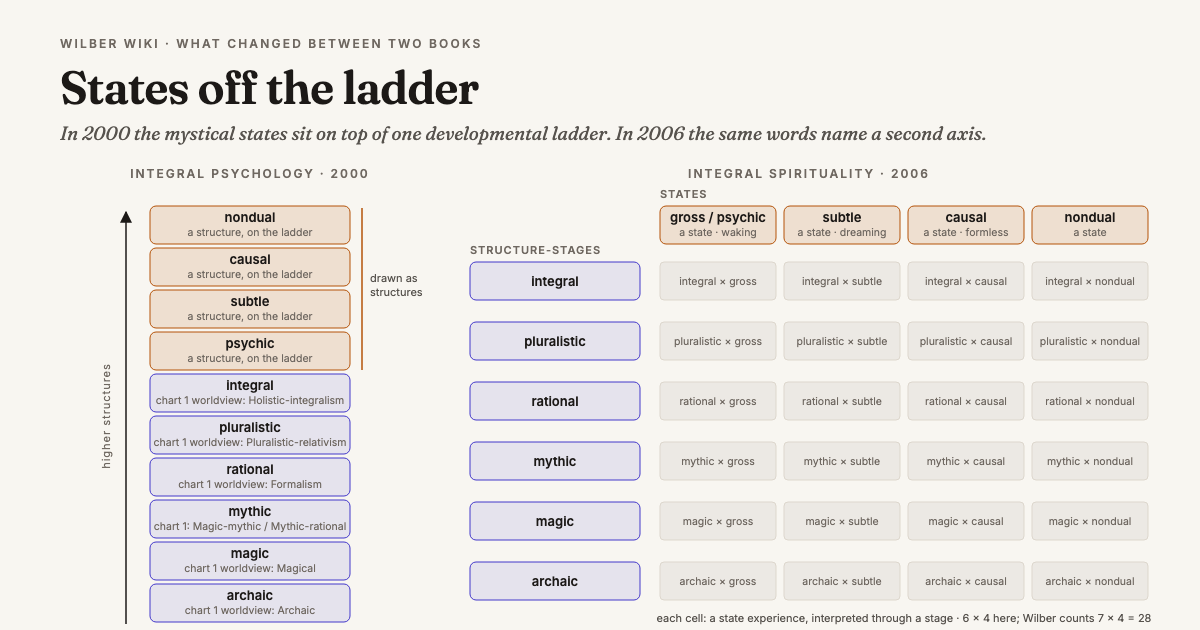
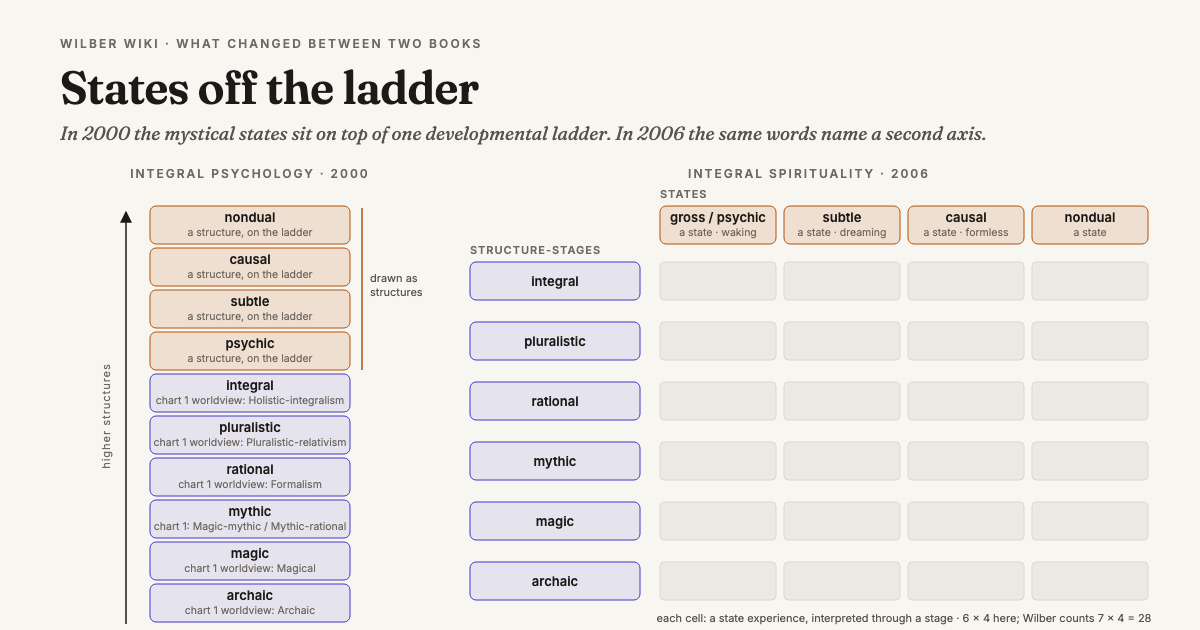
Visuals: figures head their concept pages, states grid without cell labels, /assets hidden from sidebar; at6.4 reshaped (wilberwiki-8lk)
Claude-Session: https://claude.ai/code/session_01FHWY7XNxLgMcxMJ5aUtXQH

diff --git a/docs/plans/visual-brainstorm/states-and-stages/index.html b/docs/plans/visual-brainstorm/states-and-stages/index.html
@@ -125,40 +125,40 @@ footer { padding: 2rem 0 3rem; font-size: 0.8rem; color: var(--wv-muted); border
 
   <!-- step 3: the cells, each a state experience interpreted through a stage -->
   <g class="wv-fade" data-at="3" style="transition-delay: 0ms">
-    <g><rect x="660" y="262" width="116" height="38" rx="4" class="f-neutral s-faint w-hair"><title>integral × gross/psychic: a gross-state experience, interpreted through the integral stage</title></rect><text x="718" y="285" text-anchor="middle" class="t-foot">integral × gross</text></g>
-    <g><rect x="784" y="262" width="116" height="38" rx="4" class="f-neutral s-faint w-hair"><title>integral × subtle: a subtle-state experience, interpreted through the integral stage</title></rect><text x="842" y="285" text-anchor="middle" class="t-foot">integral × subtle</text></g>
-    <g><rect x="908" y="262" width="116" height="38" rx="4" class="f-neutral s-faint w-hair"><title>integral × causal: a causal-state experience, interpreted through the integral stage</title></rect><text x="966" y="285" text-anchor="middle" class="t-foot">integral × causal</text></g>
-    <g><rect x="1032" y="262" width="116" height="38" rx="4" class="f-neutral s-faint w-hair"><title>integral × nondual: a nondual-state experience, interpreted through the integral stage</title></rect><text x="1090" y="285" text-anchor="middle" class="t-foot">integral × nondual</text></g>
+    <g><rect x="660" y="262" width="116" height="38" rx="4" class="f-neutral s-faint w-hair"><title>integral × gross/psychic: a gross-state experience, interpreted through the integral stage</title></rect></g>
+    <g><rect x="784" y="262" width="116" height="38" rx="4" class="f-neutral s-faint w-hair"><title>integral × subtle: a subtle-state experience, interpreted through the integral stage</title></rect></g>
+    <g><rect x="908" y="262" width="116" height="38" rx="4" class="f-neutral s-faint w-hair"><title>integral × causal: a causal-state experience, interpreted through the integral stage</title></rect></g>
+    <g><rect x="1032" y="262" width="116" height="38" rx="4" class="f-neutral s-faint w-hair"><title>integral × nondual: a nondual-state experience, interpreted through the integral stage</title></rect></g>
   </g>
   <g class="wv-fade" data-at="3" style="transition-delay: 90ms">
-    <g><rect x="660" y="322" width="116" height="38" rx="4" class="f-neutral s-faint w-hair"><title>pluralistic × gross/psychic: a gross-state experience, interpreted through the pluralistic stage</title></rect><text x="718" y="345" text-anchor="middle" class="t-foot">pluralistic × gross</text></g>
-    <g><rect x="784" y="322" width="116" height="38" rx="4" class="f-neutral s-faint w-hair"><title>pluralistic × subtle: a subtle-state experience, interpreted through the pluralistic stage</title></rect><text x="842" y="345" text-anchor="middle" class="t-foot">pluralistic × subtle</text></g>
-    <g><rect x="908" y="322" width="116" height="38" rx="4" class="f-neutral s-faint w-hair"><title>pluralistic × causal: a causal-state experience, interpreted through the pluralistic stage</title></rect><text x="966" y="345" text-anchor="middle" class="t-foot">pluralistic × causal</text></g>
-    <g><rect x="1032" y="322" width="116" height="38" rx="4" class="f-neutral s-faint w-hair"><title>pluralistic × nondual: a nondual-state experience, interpreted through the pluralistic stage</title></rect><text x="1090" y="345" text-anchor="middle" class="t-foot">pluralistic × nondual</text></g>
+    <g><rect x="660" y="322" width="116" height="38" rx="4" class="f-neutral s-faint w-hair"><title>pluralistic × gross/psychic: a gross-state experience, interpreted through the pluralistic stage</title></rect></g>
+    <g><rect x="784" y="322" width="116" height="38" rx="4" class="f-neutral s-faint w-hair"><title>pluralistic × subtle: a subtle-state experience, interpreted through the pluralistic stage</title></rect></g>
+    <g><rect x="908" y="322" width="116" height="38" rx="4" class="f-neutral s-faint w-hair"><title>pluralistic × causal: a causal-state experience, interpreted through the pluralistic stage</title></rect></g>
+    <g><rect x="1032" y="322" width="116" height="38" rx="4" class="f-neutral s-faint w-hair"><title>pluralistic × nondual: a nondual-state experience, interpreted through the pluralistic stage</title></rect></g>
   </g>
   <g class="wv-fade" data-at="3" style="transition-delay: 180ms">
-    <g><rect x="660" y="382" width="116" height="38" rx="4" class="f-neutral s-faint w-hair"><title>rational × gross/psychic: a gross-state experience, interpreted through the rational stage</title></rect><text x="718" y="405" text-anchor="middle" class="t-foot">rational × gross</text></g>
-    <g><rect x="784" y="382" width="116" height="38" rx="4" class="f-neutral s-faint w-hair"><title>rational × subtle: a subtle-state experience, interpreted through the rational stage</title></rect><text x="842" y="405" text-anchor="middle" class="t-foot">rational × subtle</text></g>
-    <g><rect x="908" y="382" width="116" height="38" rx="4" class="f-neutral s-faint w-hair"><title>rational × causal: a causal-state experience, interpreted through the rational stage</title></rect><text x="966" y="405" text-anchor="middle" class="t-foot">rational × causal</text></g>
-    <g><rect x="1032" y="382" width="116" height="38" rx="4" class="f-neutral s-faint w-hair"><title>rational × nondual: a nondual-state experience, interpreted through the rational stage</title></rect><text x="1090" y="405" text-anchor="middle" class="t-foot">rational × nondual</text></g>
+    <g><rect x="660" y="382" width="116" height="38" rx="4" class="f-neutral s-faint w-hair"><title>rational × gross/psychic: a gross-state experience, interpreted through the rational stage</title></rect></g>
+    <g><rect x="784" y="382" width="116" height="38" rx="4" class="f-neutral s-faint w-hair"><title>rational × subtle: a subtle-state experience, interpreted through the rational stage</title></rect></g>
+    <g><rect x="908" y="382" width="116" height="38" rx="4" class="f-neutral s-faint w-hair"><title>rational × causal: a causal-state experience, interpreted through the rational stage</title></rect></g>
+    <g><rect x="1032" y="382" width="116" height="38" rx="4" class="f-neutral s-faint w-hair"><title>rational × nondual: a nondual-state experience, interpreted through the rational stage</title></rect></g>
   </g>
   <g class="wv-fade" data-at="3" style="transition-delay: 270ms">
-    <g><rect x="660" y="442" width="116" height="38" rx="4" class="f-neutral s-faint w-hair"><title>mythic × gross/psychic: a gross-state experience, interpreted through the mythic stage</title></rect><text x="718" y="465" text-anchor="middle" class="t-foot">mythic × gross</text></g>
-    <g><rect x="784" y="442" width="116" height="38" rx="4" class="f-neutral s-faint w-hair"><title>mythic × subtle: a subtle-state experience, interpreted through the mythic stage</title></rect><text x="842" y="465" text-anchor="middle" class="t-foot">mythic × subtle</text></g>
-    <g><rect x="908" y="442" width="116" height="38" rx="4" class="f-neutral s-faint w-hair"><title>mythic × causal: a causal-state experience, interpreted through the mythic stage</title></rect><text x="966" y="465" text-anchor="middle" class="t-foot">mythic × causal</text></g>
-    <g><rect x="1032" y="442" width="116" height="38" rx="4" class="f-neutral s-faint w-hair"><title>mythic × nondual: a nondual-state experience, interpreted through the mythic stage</title></rect><text x="1090" y="465" text-anchor="middle" class="t-foot">mythic × nondual</text></g>
+    <g><rect x="660" y="442" width="116" height="38" rx="4" class="f-neutral s-faint w-hair"><title>mythic × gross/psychic: a gross-state experience, interpreted through the mythic stage</title></rect></g>
+    <g><rect x="784" y="442" width="116" height="38" rx="4" class="f-neutral s-faint w-hair"><title>mythic × subtle: a subtle-state experience, interpreted through the mythic stage</title></rect></g>
+    <g><rect x="908" y="442" width="116" height="38" rx="4" class="f-neutral s-faint w-hair"><title>mythic × causal: a causal-state experience, interpreted through the mythic stage</title></rect></g>
+    <g><rect x="1032" y="442" width="116" height="38" rx="4" class="f-neutral s-faint w-hair"><title>mythic × nondual: a nondual-state experience, interpreted through the mythic stage</title></rect></g>
   </g>
   <g class="wv-fade" data-at="3" style="transition-delay: 360ms">
-    <g><rect x="660" y="502" width="116" height="38" rx="4" class="f-neutral s-faint w-hair"><title>magic × gross/psychic: a gross-state experience, interpreted through the magic stage</title></rect><text x="718" y="525" text-anchor="middle" class="t-foot">magic × gross</text></g>
-    <g><rect x="784" y="502" width="116" height="38" rx="4" class="f-neutral s-faint w-hair"><title>magic × subtle: a subtle-state experience, interpreted through the magic stage</title></rect><text x="842" y="525" text-anchor="middle" class="t-foot">magic × subtle</text></g>
-    <g><rect x="908" y="502" width="116" height="38" rx="4" class="f-neutral s-faint w-hair"><title>magic × causal: a causal-state experience, interpreted through the magic stage</title></rect><text x="966" y="525" text-anchor="middle" class="t-foot">magic × causal</text></g>
-    <g><rect x="1032" y="502" width="116" height="38" rx="4" class="f-neutral s-faint w-hair"><title>magic × nondual: a nondual-state experience, interpreted through the magic stage</title></rect><text x="1090" y="525" text-anchor="middle" class="t-foot">magic × nondual</text></g>
+    <g><rect x="660" y="502" width="116" height="38" rx="4" class="f-neutral s-faint w-hair"><title>magic × gross/psychic: a gross-state experience, interpreted through the magic stage</title></rect></g>
+    <g><rect x="784" y="502" width="116" height="38" rx="4" class="f-neutral s-faint w-hair"><title>magic × subtle: a subtle-state experience, interpreted through the magic stage</title></rect></g>
+    <g><rect x="908" y="502" width="116" height="38" rx="4" class="f-neutral s-faint w-hair"><title>magic × causal: a causal-state experience, interpreted through the magic stage</title></rect></g>
+    <g><rect x="1032" y="502" width="116" height="38" rx="4" class="f-neutral s-faint w-hair"><title>magic × nondual: a nondual-state experience, interpreted through the magic stage</title></rect></g>
   </g>
   <g class="wv-fade" data-at="3" style="transition-delay: 450ms">
-    <g><rect x="660" y="562" width="116" height="38" rx="4" class="f-neutral s-faint w-hair"><title>archaic × gross/psychic: a gross-state experience, interpreted through the archaic stage</title></rect><text x="718" y="585" text-anchor="middle" class="t-foot">archaic × gross</text></g>
-    <g><rect x="784" y="562" width="116" height="38" rx="4" class="f-neutral s-faint w-hair"><title>archaic × subtle: a subtle-state experience, interpreted through the archaic stage</title></rect><text x="842" y="585" text-anchor="middle" class="t-foot">archaic × subtle</text></g>
-    <g><rect x="908" y="562" width="116" height="38" rx="4" class="f-neutral s-faint w-hair"><title>archaic × causal: a causal-state experience, interpreted through the archaic stage</title></rect><text x="966" y="585" text-anchor="middle" class="t-foot">archaic × causal</text></g>
-    <g><rect x="1032" y="562" width="116" height="38" rx="4" class="f-neutral s-faint w-hair"><title>archaic × nondual: a nondual-state experience, interpreted through the archaic stage</title></rect><text x="1090" y="585" text-anchor="middle" class="t-foot">archaic × nondual</text></g>
+    <g><rect x="660" y="562" width="116" height="38" rx="4" class="f-neutral s-faint w-hair"><title>archaic × gross/psychic: a gross-state experience, interpreted through the archaic stage</title></rect></g>
+    <g><rect x="784" y="562" width="116" height="38" rx="4" class="f-neutral s-faint w-hair"><title>archaic × subtle: a subtle-state experience, interpreted through the archaic stage</title></rect></g>
+    <g><rect x="908" y="562" width="116" height="38" rx="4" class="f-neutral s-faint w-hair"><title>archaic × causal: a causal-state experience, interpreted through the archaic stage</title></rect></g>
+    <g><rect x="1032" y="562" width="116" height="38" rx="4" class="f-neutral s-faint w-hair"><title>archaic × nondual: a nondual-state experience, interpreted through the archaic stage</title></rect></g>
   </g>
   <text x="904" y="622" text-anchor="middle" class="t-small t-soft wv-fade" data-at="3" style="transition-delay: 500ms">each cell: a state experience, interpreted through a stage · 6 × 4 here; Wilber counts 7 × 4 = 28</text>
 

diff --git a/visuals.md b/visuals.md
@@ -185,40 +185,40 @@ The two-bin "untutored eye" picture is this wiki's device for Wilber's sentence.
   </g>
   <!-- step 3: the cells, each a state experience interpreted through a stage -->
   <g class="wv-fade" data-at="3" style="transition-delay: 0ms">
-    <g><rect x="660" y="262" width="116" height="38" rx="4" class="f-neutral s-faint w-hair"><title>integral × gross/psychic: a gross-state experience, interpreted through the integral stage</title></rect><text x="718" y="285" text-anchor="middle" class="t-foot">integral × gross</text></g>
-    <g><rect x="784" y="262" width="116" height="38" rx="4" class="f-neutral s-faint w-hair"><title>integral × subtle: a subtle-state experience, interpreted through the integral stage</title></rect><text x="842" y="285" text-anchor="middle" class="t-foot">integral × subtle</text></g>
-    <g><rect x="908" y="262" width="116" height="38" rx="4" class="f-neutral s-faint w-hair"><title>integral × causal: a causal-state experience, interpreted through the integral stage</title></rect><text x="966" y="285" text-anchor="middle" class="t-foot">integral × causal</text></g>
-    <g><rect x="1032" y="262" width="116" height="38" rx="4" class="f-neutral s-faint w-hair"><title>integral × nondual: a nondual-state experience, interpreted through the integral stage</title></rect><text x="1090" y="285" text-anchor="middle" class="t-foot">integral × nondual</text></g>
+    <g><rect x="660" y="262" width="116" height="38" rx="4" class="f-neutral s-faint w-hair"><title>integral × gross/psychic: a gross-state experience, interpreted through the integral stage</title></rect></g>
+    <g><rect x="784" y="262" width="116" height="38" rx="4" class="f-neutral s-faint w-hair"><title>integral × subtle: a subtle-state experience, interpreted through the integral stage</title></rect></g>
+    <g><rect x="908" y="262" width="116" height="38" rx="4" class="f-neutral s-faint w-hair"><title>integral × causal: a causal-state experience, interpreted through the integral stage</title></rect></g>
+    <g><rect x="1032" y="262" width="116" height="38" rx="4" class="f-neutral s-faint w-hair"><title>integral × nondual: a nondual-state experience, interpreted through the integral stage</title></rect></g>
   </g>
   <g class="wv-fade" data-at="3" style="transition-delay: 90ms">
-    <g><rect x="660" y="322" width="116" height="38" rx="4" class="f-neutral s-faint w-hair"><title>pluralistic × gross/psychic: a gross-state experience, interpreted through the pluralistic stage</title></rect><text x="718" y="345" text-anchor="middle" class="t-foot">pluralistic × gross</text></g>
-    <g><rect x="784" y="322" width="116" height="38" rx="4" class="f-neutral s-faint w-hair"><title>pluralistic × subtle: a subtle-state experience, interpreted through the pluralistic stage</title></rect><text x="842" y="345" text-anchor="middle" class="t-foot">pluralistic × subtle</text></g>
-    <g><rect x="908" y="322" width="116" height="38" rx="4" class="f-neutral s-faint w-hair"><title>pluralistic × causal: a causal-state experience, interpreted through the pluralistic stage</title></rect><text x="966" y="345" text-anchor="middle" class="t-foot">pluralistic × causal</text></g>
-    <g><rect x="1032" y="322" width="116" height="38" rx="4" class="f-neutral s-faint w-hair"><title>pluralistic × nondual: a nondual-state experience, interpreted through the pluralistic stage</title></rect><text x="1090" y="345" text-anchor="middle" class="t-foot">pluralistic × nondual</text></g>
+    <g><rect x="660" y="322" width="116" height="38" rx="4" class="f-neutral s-faint w-hair"><title>pluralistic × gross/psychic: a gross-state experience, interpreted through the pluralistic stage</title></rect></g>
+    <g><rect x="784" y="322" width="116" height="38" rx="4" class="f-neutral s-faint w-hair"><title>pluralistic × subtle: a subtle-state experience, interpreted through the pluralistic stage</title></rect></g>
+    <g><rect x="908" y="322" width="116" height="38" rx="4" class="f-neutral s-faint w-hair"><title>pluralistic × causal: a causal-state experience, interpreted through the pluralistic stage</title></rect></g>
+    <g><rect x="1032" y="322" width="116" height="38" rx="4" class="f-neutral s-faint w-hair"><title>pluralistic × nondual: a nondual-state experience, interpreted through the pluralistic stage</title></rect></g>
   </g>
   <g class="wv-fade" data-at="3" style="transition-delay: 180ms">
-    <g><rect x="660" y="382" width="116" height="38" rx="4" class="f-neutral s-faint w-hair"><title>rational × gross/psychic: a gross-state experience, interpreted through the rational stage</title></rect><text x="718" y="405" text-anchor="middle" class="t-foot">rational × gross</text></g>
-    <g><rect x="784" y="382" width="116" height="38" rx="4" class="f-neutral s-faint w-hair"><title>rational × subtle: a subtle-state experience, interpreted through the rational stage</title></rect><text x="842" y="405" text-anchor="middle" class="t-foot">rational × subtle</text></g>
-    <g><rect x="908" y="382" width="116" height="38" rx="4" class="f-neutral s-faint w-hair"><title>rational × causal: a causal-state experience, interpreted through the rational stage</title></rect><text x="966" y="405" text-anchor="middle" class="t-foot">rational × causal</text></g>
-    <g><rect x="1032" y="382" width="116" height="38" rx="4" class="f-neutral s-faint w-hair"><title>rational × nondual: a nondual-state experience, interpreted through the rational stage</title></rect><text x="1090" y="405" text-anchor="middle" class="t-foot">rational × nondual</text></g>
+    <g><rect x="660" y="382" width="116" height="38" rx="4" class="f-neutral s-faint w-hair"><title>rational × gross/psychic: a gross-state experience, interpreted through the rational stage</title></rect></g>
+    <g><rect x="784" y="382" width="116" height="38" rx="4" class="f-neutral s-faint w-hair"><title>rational × subtle: a subtle-state experience, interpreted through the rational stage</title></rect></g>
+    <g><rect x="908" y="382" width="116" height="38" rx="4" class="f-neutral s-faint w-hair"><title>rational × causal: a causal-state experience, interpreted through the rational stage</title></rect></g>
+    <g><rect x="1032" y="382" width="116" height="38" rx="4" class="f-neutral s-faint w-hair"><title>rational × nondual: a nondual-state experience, interpreted through the rational stage</title></rect></g>
   </g>
   <g class="wv-fade" data-at="3" style="transition-delay: 270ms">
-    <g><rect x="660" y="442" width="116" height="38" rx="4" class="f-neutral s-faint w-hair"><title>mythic × gross/psychic: a gross-state experience, interpreted through the mythic stage</title></rect><text x="718" y="465" text-anchor="middle" class="t-foot">mythic × gross</text></g>
-    <g><rect x="784" y="442" width="116" height="38" rx="4" class="f-neutral s-faint w-hair"><title>mythic × subtle: a subtle-state experience, interpreted through the mythic stage</title></rect><text x="842" y="465" text-anchor="middle" class="t-foot">mythic × subtle</text></g>
-    <g><rect x="908" y="442" width="116" height="38" rx="4" class="f-neutral s-faint w-hair"><title>mythic × causal: a causal-state experience, interpreted through the mythic stage</title></rect><text x="966" y="465" text-anchor="middle" class="t-foot">mythic × causal</text></g>
-    <g><rect x="1032" y="442" width="116" height="38" rx="4" class="f-neutral s-faint w-hair"><title>mythic × nondual: a nondual-state experience, interpreted through the mythic stage</title></rect><text x="1090" y="465" text-anchor="middle" class="t-foot">mythic × nondual</text></g>
+    <g><rect x="660" y="442" width="116" height="38" rx="4" class="f-neutral s-faint w-hair"><title>mythic × gross/psychic: a gross-state experience, interpreted through the mythic stage</title></rect></g>
+    <g><rect x="784" y="442" width="116" height="38" rx="4" class="f-neutral s-faint w-hair"><title>mythic × subtle: a subtle-state experience, interpreted through the mythic stage</title></rect></g>
+    <g><rect x="908" y="442" width="116" height="38" rx="4" class="f-neutral s-faint w-hair"><title>mythic × causal: a causal-state experience, interpreted through the mythic stage</title></rect></g>
+    <g><rect x="1032" y="442" width="116" height="38" rx="4" class="f-neutral s-faint w-hair"><title>mythic × nondual: a nondual-state experience, interpreted through the mythic stage</title></rect></g>
   </g>
   <g class="wv-fade" data-at="3" style="transition-delay: 360ms">
-    <g><rect x="660" y="502" width="116" height="38" rx="4" class="f-neutral s-faint w-hair"><title>magic × gross/psychic: a gross-state experience, interpreted through the magic stage</title></rect><text x="718" y="525" text-anchor="middle" class="t-foot">magic × gross</text></g>
-    <g><rect x="784" y="502" width="116" height="38" rx="4" class="f-neutral s-faint w-hair"><title>magic × subtle: a subtle-state experience, interpreted through the magic stage</title></rect><text x="842" y="525" text-anchor="middle" class="t-foot">magic × subtle</text></g>
-    <g><rect x="908" y="502" width="116" height="38" rx="4" class="f-neutral s-faint w-hair"><title>magic × causal: a causal-state experience, interpreted through the magic stage</title></rect><text x="966" y="525" text-anchor="middle" class="t-foot">magic × causal</text></g>
-    <g><rect x="1032" y="502" width="116" height="38" rx="4" class="f-neutral s-faint w-hair"><title>magic × nondual: a nondual-state experience, interpreted through the magic stage</title></rect><text x="1090" y="525" text-anchor="middle" class="t-foot">magic × nondual</text></g>
+    <g><rect x="660" y="502" width="116" height="38" rx="4" class="f-neutral s-faint w-hair"><title>magic × gross/psychic: a gross-state experience, interpreted through the magic stage</title></rect></g>
+    <g><rect x="784" y="502" width="116" height="38" rx="4" class="f-neutral s-faint w-hair"><title>magic × subtle: a subtle-state experience, interpreted through the magic stage</title></rect></g>
+    <g><rect x="908" y="502" width="116" height="38" rx="4" class="f-neutral s-faint w-hair"><title>magic × causal: a causal-state experience, interpreted through the magic stage</title></rect></g>
+    <g><rect x="1032" y="502" width="116" height="38" rx="4" class="f-neutral s-faint w-hair"><title>magic × nondual: a nondual-state experience, interpreted through the magic stage</title></rect></g>
   </g>
   <g class="wv-fade" data-at="3" style="transition-delay: 450ms">
-    <g><rect x="660" y="562" width="116" height="38" rx="4" class="f-neutral s-faint w-hair"><title>archaic × gross/psychic: a gross-state experience, interpreted through the archaic stage</title></rect><text x="718" y="585" text-anchor="middle" class="t-foot">archaic × gross</text></g>
-    <g><rect x="784" y="562" width="116" height="38" rx="4" class="f-neutral s-faint w-hair"><title>archaic × subtle: a subtle-state experience, interpreted through the archaic stage</title></rect><text x="842" y="585" text-anchor="middle" class="t-foot">archaic × subtle</text></g>
-    <g><rect x="908" y="562" width="116" height="38" rx="4" class="f-neutral s-faint w-hair"><title>archaic × causal: a causal-state experience, interpreted through the archaic stage</title></rect><text x="966" y="585" text-anchor="middle" class="t-foot">archaic × causal</text></g>
-    <g><rect x="1032" y="562" width="116" height="38" rx="4" class="f-neutral s-faint w-hair"><title>archaic × nondual: a nondual-state experience, interpreted through the archaic stage</title></rect><text x="1090" y="585" text-anchor="middle" class="t-foot">archaic × nondual</text></g>
+    <g><rect x="660" y="562" width="116" height="38" rx="4" class="f-neutral s-faint w-hair"><title>archaic × gross/psychic: a gross-state experience, interpreted through the archaic stage</title></rect></g>
+    <g><rect x="784" y="562" width="116" height="38" rx="4" class="f-neutral s-faint w-hair"><title>archaic × subtle: a subtle-state experience, interpreted through the archaic stage</title></rect></g>
+    <g><rect x="908" y="562" width="116" height="38" rx="4" class="f-neutral s-faint w-hair"><title>archaic × causal: a causal-state experience, interpreted through the archaic stage</title></rect></g>
+    <g><rect x="1032" y="562" width="116" height="38" rx="4" class="f-neutral s-faint w-hair"><title>archaic × nondual: a nondual-state experience, interpreted through the archaic stage</title></rect></g>
   </g>
   <text x="904" y="622" text-anchor="middle" class="t-small t-soft wv-fade" data-at="3" style="transition-delay: 500ms">each cell: a state experience, interpreted through a stage · 6 × 4 here; Wilber counts 7 × 4 = 28</text>
   <!-- step 4: the passage and the honest note (settled frame) -->

diff --git a/NEXT.md b/NEXT.md
@@ -16,7 +16,7 @@ you're done).
 ## Checkpoint 2026-10-26
 
 - Shipped: a [Visuals](visuals.md) page with two figures, the pre/trans fallacy and states off the ladder (bead `wilberwiki-clq`, closed; follow-ups in `wilberwiki-b5y`). The figure rules are in [`docs/figure-design.md`](docs/figure-design.md); the brief and full decision log are in `docs/plans/2026-10-24-visual-brainstorm-brief.md`; the gallery of 12 directions is in `docs/plans/visual-brainstorm/`.
-- /visuals now shows each figure as an image first, with Copy image, Download and Share buttons, and the animation on request (`scripts/sync-visuals.py`). The site is plain markdown, so raw HTML, SVG and JS all work. All remaining visuals work is under the epic `wilberwiki-8lk`: four figures are live (pre/trans, states, quadrants, holarchy); next is the I–V timeline, the at6.4 diptych decision and open details for Rufus, plus optional per-figure share links and a fuller design system.
+- /visuals now shows each figure as an image first, with Copy image, Download and Share buttons, and the animation on request (`scripts/sync-visuals.py`). The site is plain markdown, so raw HTML, SVG and JS all work. All remaining visuals work is under the epic `wilberwiki-8lk`: four figures are live (pre/trans, states, quadrants, holarchy); next is the I–V timeline, the at6.4 diptych decision and open details for Rufus, plus optional per-figure share links and a fuller design system. Decided 2026-10-26: `at6.4` is reshaped into a series of before/after diptychs (notes on the bead; `.4.7` plans the series), so the I–V timeline (`8lk.3`) is unblocked. Each figure also heads its concept page.
 - Open for Rufus: drop the 24 cell labels in the states grid? Shorten its ◇ note? Swap fonts or colours later?
 
 ## Checkpoint 2026-10-11

diff --git a/docs/plans/visual-brainstorm/states-and-stages/README.md b/docs/plans/visual-brainstorm/states-and-stages/README.md
@@ -23,7 +23,7 @@ Wilber's: both pictures. The 2000 spine is his master chart's left column; the 2
 
 Ours, marked ◇ on the canvas: the "what changed is the picture" note; the framing of the two pictures as one animation in which rungs become headers and rows. Also ours, stated on the page: pairing IS's Gebser-like stage names with IP chart-1 worldview names on the small ladder labels (approximate: "mythic" spans two chart-1 rows); the one-word state glosses; "a state" with no gloss for nondual (the earlier build's "ever-present" was our word and has been dropped).
 
-Not shown on purpose: cell contents. Wilber gives examples of how particular states are read at particular stages; none have been quote-verified, so cells carry only "stage × state".
+Not shown on purpose: cell contents. Wilber gives examples of how particular states are read at particular stages; none have been quote-verified, so cells are left empty on the canvas, with "stage × state" only in each cell's tooltip and in the page's table (the in-cell labels were dropped on 2026-10-26 as clutter, Rufus).
 
 Known simplification, unchanged: IP lists psychic/subtle/causal/nondual as *structures* in the chart while saying in the text that the *states* of the same names are available at any stage. The canvas shows the chart picture on the left and quotes the caveat on the right; whether that is fair is open question 1.
 

diff --git a/changelog.md b/changelog.md
@@ -5,7 +5,7 @@ description: What has changed on Wilber Wiki, newest first.
 
 ## 2026-10-26 — Two more figures: the four quadrants and holarchy
 
-[Visuals](visuals.md) now has four figures. *One thought, four windows* follows Wilber's own example of a single thought round the four quadrants. *Pull a rung out* acts out his test for what is "higher": destroy the molecules, and cells and organisms go with them.
+[Visuals](visuals.md) now has four figures. *One thought, four windows* follows Wilber's own example of a single thought round the four quadrants. *Pull a rung out* acts out his test for what is "higher": destroy the molecules, and cells and organisms go with them. Each figure now also heads its concept page: [the pre/trans fallacy](concepts/pre-trans-fallacy.md), [the four quadrants](concepts/four-quadrants.md), [holarchy](concepts/holarchy.md) and [from SES to Integral Spirituality](concepts/from-ses-to-integral-spirituality.md).
 
 ![One thought, four windows](assets/visuals/four-quadrants-og.png)
 

diff --git a/concepts/from-ses-to-integral-spirituality.md b/concepts/from-ses-to-integral-spirituality.md
@@ -5,9 +5,14 @@ aliases: [evolution of wilber's thought, wilber-4 to wilber-5, post-metaphysical
 category: wilber-on-x
 status: draft
 works: [1995-sex-ecology-spirituality, 2000-integral-psychology, 2006-integral-spirituality]
+image: /assets/visuals/states-and-stages-og.png
 ---
 
 # From SES to Integral Spirituality: How Wilber's Map Changed
+
+[![States off the ladder: the 2000 ladder beside the 2006 lattice of states and stages](../assets/visuals/states-and-stages.png)](../visuals.md#states-off-the-ladder)
+
+*The third shift, taking states off the ladder, in one picture. Copy, download, share or watch it unfold on [Visuals](../visuals.md#states-off-the-ladder).*
 
 ## Wilber's View
 

diff --git a/concepts/four-quadrants.md b/concepts/four-quadrants.md
@@ -5,9 +5,14 @@ aliases: [four quadrants, AQAL, quadrants]
 category: core-term
 status: draft
 works: [1995-sex-ecology-spirituality, 2000-integral-psychology, 2006-integral-spirituality]
+image: /assets/visuals/four-quadrants-og.png
 ---
 
 # The Four Quadrants
+
+[![One thought, four windows: Wilber's example of a single thought seen through the four quadrants](../assets/visuals/four-quadrants.png)](../visuals.md#one-thought-four-windows)
+
+*The four quadrants in one picture, using Wilber's own example. Copy, download, share or watch it unfold on [Visuals](../visuals.md#one-thought-four-windows).*
 
 ## Wilber's View
 

diff --git a/concepts/pre-trans-fallacy.md b/concepts/pre-trans-fallacy.md
@@ -5,9 +5,14 @@ aliases: [pre-trans fallacy, prerational and transrational, elevationism, reduct
 category: core-term
 status: draft
 works: [1995-sex-ecology-spirituality]
+image: /assets/visuals/pre-trans-fallacy-og.png
 ---
 
 # The Pre/Trans Fallacy
+
+[![The pre/trans fallacy in one picture: three bands of development, and the untutored eye that sees only two](../assets/visuals/pre-trans-fallacy.png)](../visuals.md#the-pretrans-fallacy)
+
+*The pre/trans fallacy in one picture. Copy, download, share or watch it unfold on [Visuals](../visuals.md#the-pretrans-fallacy).*
 
 ## Wilber's View
 

diff --git a/concepts/holarchy.md b/concepts/holarchy.md
@@ -5,9 +5,14 @@ aliases: [holarchies, holarchical]
 category: core-term
 status: draft
 works: [1995-sex-ecology-spirituality]
+image: /assets/visuals/holarchy-og.png
 ---
 
 # Holarchy
+
+[![Pull a rung out: Wilber's test for higher and lower, destroying the molecules and losing everything above them](../assets/visuals/holarchy.png)](../visuals.md#pull-a-rung-out)
+
+*Wilber's test for higher and lower, in one picture. Copy, download, share or watch it unfold on [Visuals](../visuals.md#pull-a-rung-out).*
 
 ## Wilber's View
 
